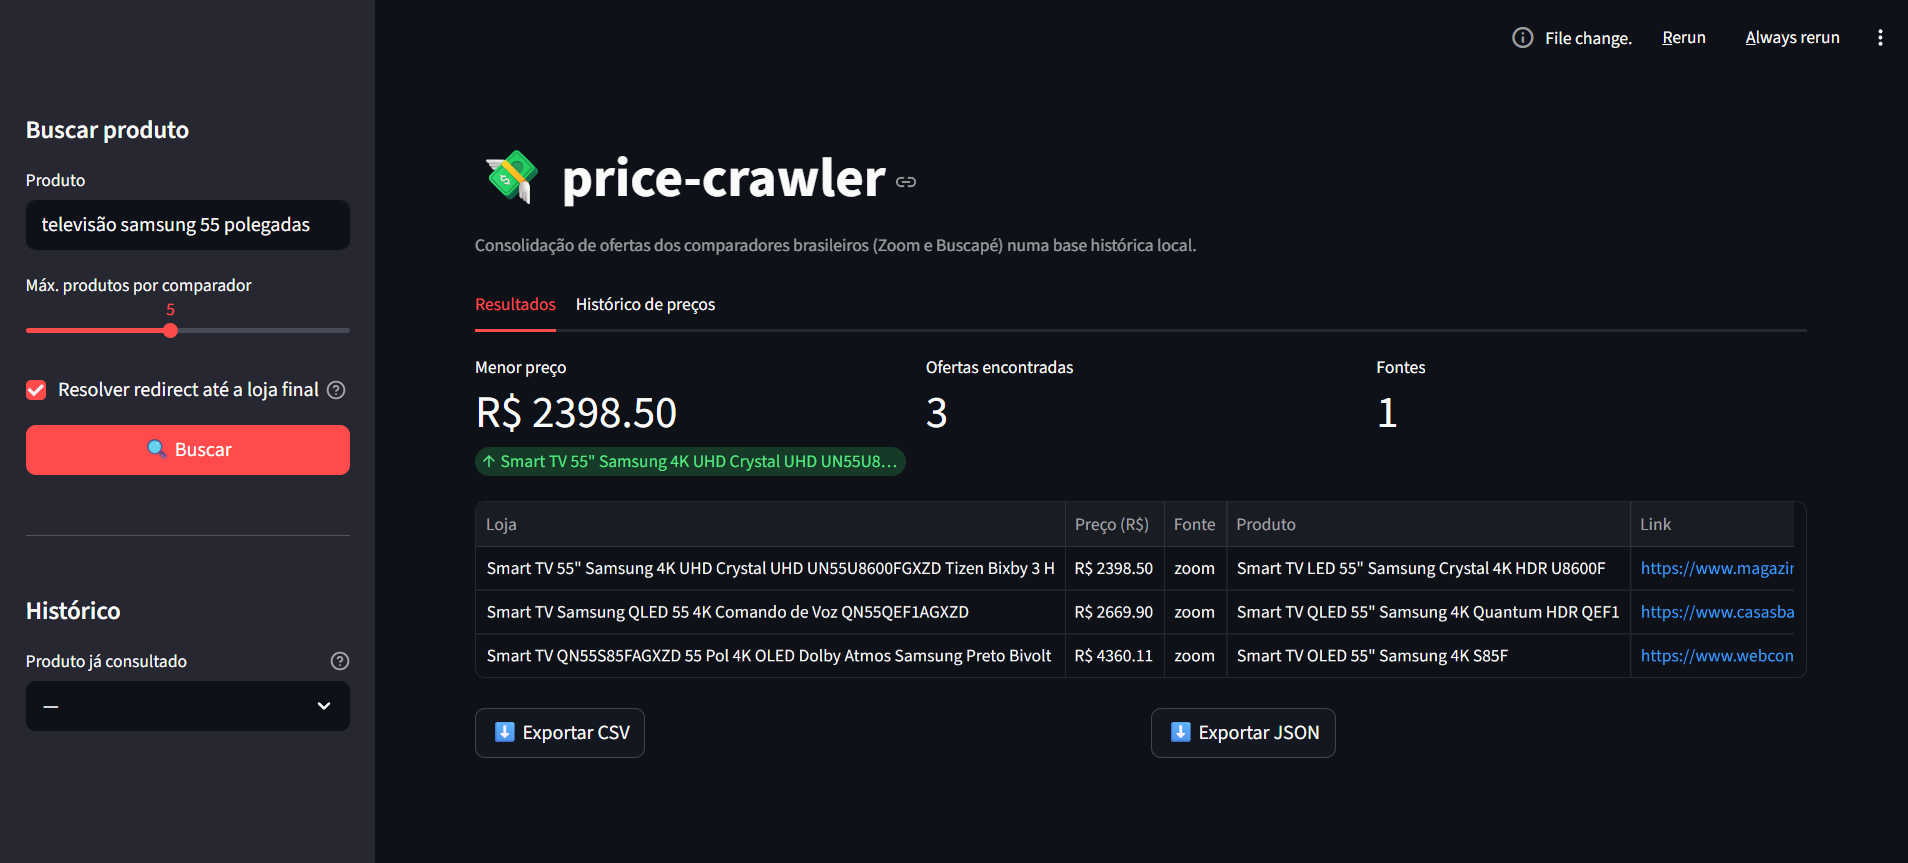
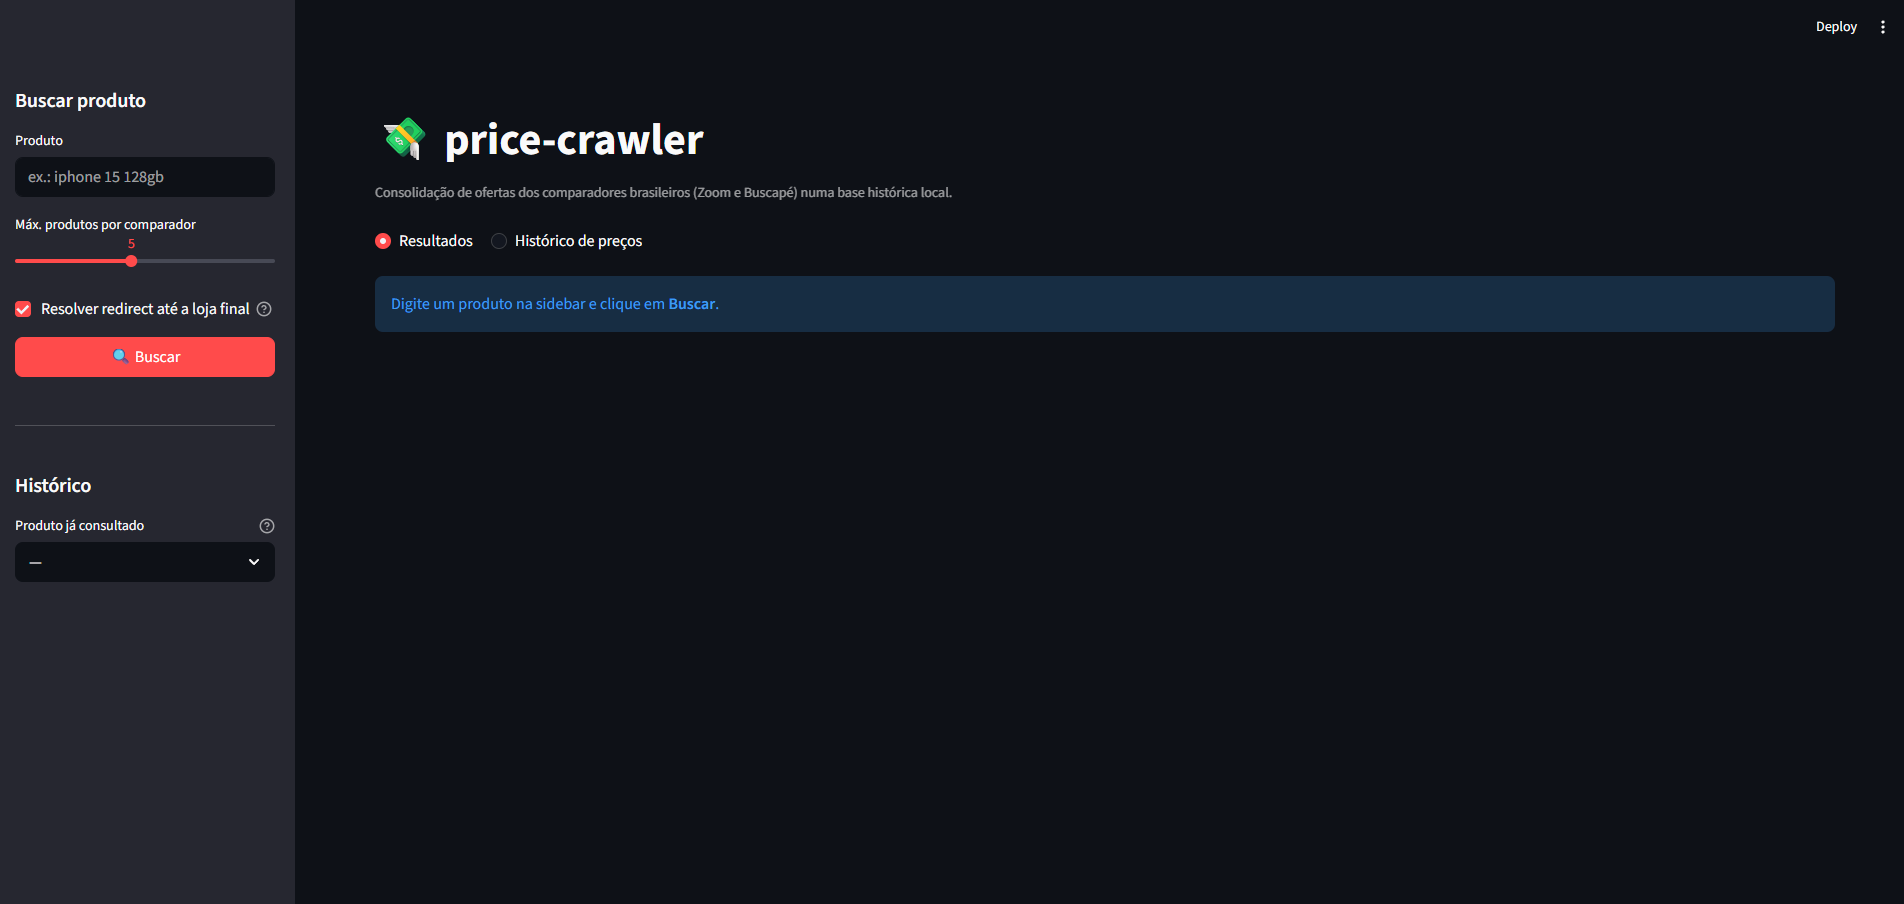
feat: implement Zoom and Buscapé scrapers with unit tests, diagnostic tools, and modular service architecture.

diff --git a/tests/test_zoom_scraper.py b/tests/test_zoom_scraper.py
@@ -33,6 +33,28 @@ class TestZoomSearch:
         soup = BeautifulSoup("<html><body></body></html>", "html.parser")
         assert ZoomScraper().parse_search_results(soup, max_results=5) == []
 
+    def test_descarta_cards_patrocinados_com_lead(self) -> None:
+        # Cards patrocinados linkam direto pra /lead?oid=... (redirect afiliado);
+        # não são páginas de detalhe, então não dá pra extrair ofertas deles.
+        html = """
+        <article data-testid='product-card'>
+          <a data-testid='product-card::card'
+             href='https://www.zoom.com.br/lead?oid=123&vtex=true'></a>
+          <span data-testid='product-card::name'>Patrocinado</span>
+          <span data-testid='product-card::price'><strong>R$ 1.999,00</strong></span>
+        </article>
+        <article data-testid='product-card'>
+          <a data-testid='product-card::card' href='/geladeira/foo?_lc=88'></a>
+          <span data-testid='product-card::name'>Geladeira Foo</span>
+          <span data-testid='product-card::price'><strong>R$ 2.999,00</strong></span>
+        </article>
+        """
+        soup = BeautifulSoup(html, "html.parser")
+        results = ZoomScraper().parse_search_results(soup, max_results=5)
+        assert len(results) == 1
+        assert "/lead?" not in results[0]["url"]
+        assert results[0]["title"] == "Geladeira Foo"
+
 
 class TestZoomOfferList:
     def test_extrai_ofertas_por_loja(self, zoom_product_html: str) -> None:

diff --git a/src/price_crawler/service.py b/src/price_crawler/service.py
@@ -1,4 +1,4 @@
-"""Orquestra a busca: scrapers em cascata → resolve redirects → persiste."""
+"""Orquestra a busca: roda todos os scrapers → resolve redirects → persiste."""
 
 from __future__ import annotations
 
@@ -60,16 +60,18 @@ class PriceSearchService:
         return results
 
     def _search_all(self, product_name: str) -> list[dict]:
-        """Tenta cada scraper em ordem; retorna assim que um deles produz resultados."""
+        """Roda todos os scrapers e concatena os resultados de cada um."""
+        all_results: list[dict] = []
         for scraper in self.scrapers:
             results = scraper.search(product_name, max_results=self.max_results_per_item)
             if results:
                 for r in results:
                     r["source"] = scraper.name
                 logger.info("[%s] %d resultados", scraper.name, len(results))
-                return results
-            logger.info("[%s] sem resultados — tentando próximo scraper", scraper.name)
-        return []
+                all_results.extend(results)
+            else:
+                logger.info("[%s] sem resultados", scraper.name)
+        return all_results
 
     def _resolve_offers(self, candidates: list[dict]) -> list[dict]:
         """Para cada candidato, abre a página de produto e expande em ofertas por loja.

diff --git a/tests/test_buscape_scraper.py b/tests/test_buscape_scraper.py
@@ -17,6 +17,30 @@ class TestBuscapeSearch:
             assert r["price"] > 0
 
 
+    def test_descarta_cards_patrocinados_com_lead(self) -> None:
+        # Cards patrocinados linkam direto pra /lead?oid=... (redirect afiliado);
+        # não são páginas de detalhe, então não dá pra extrair ofertas deles.
+        html = """
+        <div class='ProductCard'>
+          <a href='https://www.buscape.com.br/lead?oid=123&vtex=true'>
+            <h2 class='Title'>Patrocinado: Geladeira Foo</h2>
+          </a>
+          <span class='Price'>R$ 1.999,00</span>
+        </div>
+        <div class='ProductCard'>
+          <a href='/geladeira/foo?_lc=88'>
+            <h2 class='Title'>Geladeira Bar</h2>
+          </a>
+          <span class='Price'>R$ 2.999,00</span>
+        </div>
+        """
+        soup = BeautifulSoup(html, "html.parser")
+        results = BuscapeScraper().parse_search_results(soup, max_results=5)
+        assert len(results) == 1
+        assert "/lead?" not in results[0]["url"]
+        assert results[0]["title"] == "Geladeira Bar"
+
+
 class TestBuscapeOfferList:
     def test_extrai_ofertas_com_seletores_diversos(self, buscape_product_html: str) -> None:
         soup = BeautifulSoup(buscape_product_html, "html.parser")

diff --git a/src/price_crawler/scrapers/zoom.py b/src/price_crawler/scrapers/zoom.py
@@ -98,6 +98,12 @@ class ZoomScraper:
         if href and not href.startswith("http"):
             href = self.BASE_URL + href
 
+        # Cards patrocinados linkam direto pra /lead?oid=... (redirect afiliado),
+        # não pra página de detalhe do produto — descartá-los evita que
+        # get_store_offers tente extrair ofertas de uma página de loja final.
+        if href and "/lead?" in href:
+            return None
+
         if not title or price is None or not href:
             return None
         return {"title": title, "store": store_name, "url": href, "price": price}

diff --git a/src/price_crawler/scrapers/buscape.py b/src/price_crawler/scrapers/buscape.py
@@ -108,6 +108,12 @@ class BuscapeScraper:
         if href and not href.startswith("http"):
             href = self.BASE_URL + href
 
+        # Cards patrocinados linkam direto pra /lead?oid=... (redirect afiliado),
+        # não pra página de detalhe do produto — descartá-los evita que
+        # get_store_offers tente extrair ofertas de uma página de loja final.
+        if href and "/lead?" in href:
+            return None
+
         if not title or not href:
             return None
         return {"title": title, "store": "Buscapé", "url": href, "price": price}

diff --git a/README.md b/README.md
@@ -2,8 +2,9 @@
 
 > Web scraper que consolida ofertas dos comparadores brasileiros **Zoom** e **Buscapé** numa base histórica local, com bypass de detecção anti-bot e dashboard interativo em Streamlit.
 
-<!-- Substitua por um GIF do dashboard funcionando: docs/images/dashboard.gif -->
-![dashboard](docs/images/dashboard.png)
+![Resultados consolidados Zoom + Buscapé](docs/images/tela-busca2.png)
+
+![Resultados consolidados Zoom + Buscapé2](docs/images/tela_busca3.png)
 
 ---
 
@@ -14,18 +15,31 @@ Comparadores brasileiros não expõem API pública, os preços oscilam constante
 - Comparar ofertas de várias lojas para um produto específico,
 - Acompanhar a evolução do preço ao longo do tempo,
 - Ou simplesmente extrair o link real da loja (sem o redirect de tracking),
-
 precisa fazer scraping resiliente, com renderização de JavaScript e bypass de detecção anti-bot.
 
 ## A solução
 
 Pipeline completo em Python:
 
-1. **Busca** o produto no Zoom (com Buscapé como fallback);
+1. **Busca** o produto em Zoom e Buscapé e consolida as ofertas dos dois;
 2. Para cada candidato, abre a página de produto e **extrai ofertas por loja**;
 3. **Segue o redirect** de tracking via Playwright headless até a URL real do e-commerce;
 4. **Persiste** no SQLite local com timestamp — formando uma série histórica de preços;
 5. Dashboard Streamlit consulta a base e plota a **evolução de preços** por loja.
+
+## Visualização
+
+**Tela inicial** — sidebar com filtros, busca e histórico; área principal com as ofertas ordenadas pelo menor preço.
+
+![Tela inicial](docs/images/tela-inicial.png)
+
+**Resultados de uma busca** — destaca menor preço, número de ofertas e quantidade de fontes (comparadores) que retornaram resultado, com link direto para a loja final após o follow-redirect.
+
+![Tela de resultados](docs/images/tela-busca.png)
+
+**Histórico de preços** — gráfico de evolução por loja e tabela com a última cotação consolidada.
+
+![Histórico de preços](docs/images/historico-preco.png)
 
 ## Stack
 
@@ -104,7 +118,7 @@ Veja [`docs/architecture.md`](docs/architecture.md) para o diagrama detalhado.
 └─────────────────┘                            │
                                                ▼
                               ┌──────────────────────────────┐
-                              │  ZoomScraper / BuscapeScraper│  (fallback em cadeia)
+                              │  ZoomScraper / BuscapeScraper│  (rodam em sequência, resultados concatenados)
                               └────────────┬─────────────────┘
                                            │ HTML
                               ┌────────────▼─────────────────┐
